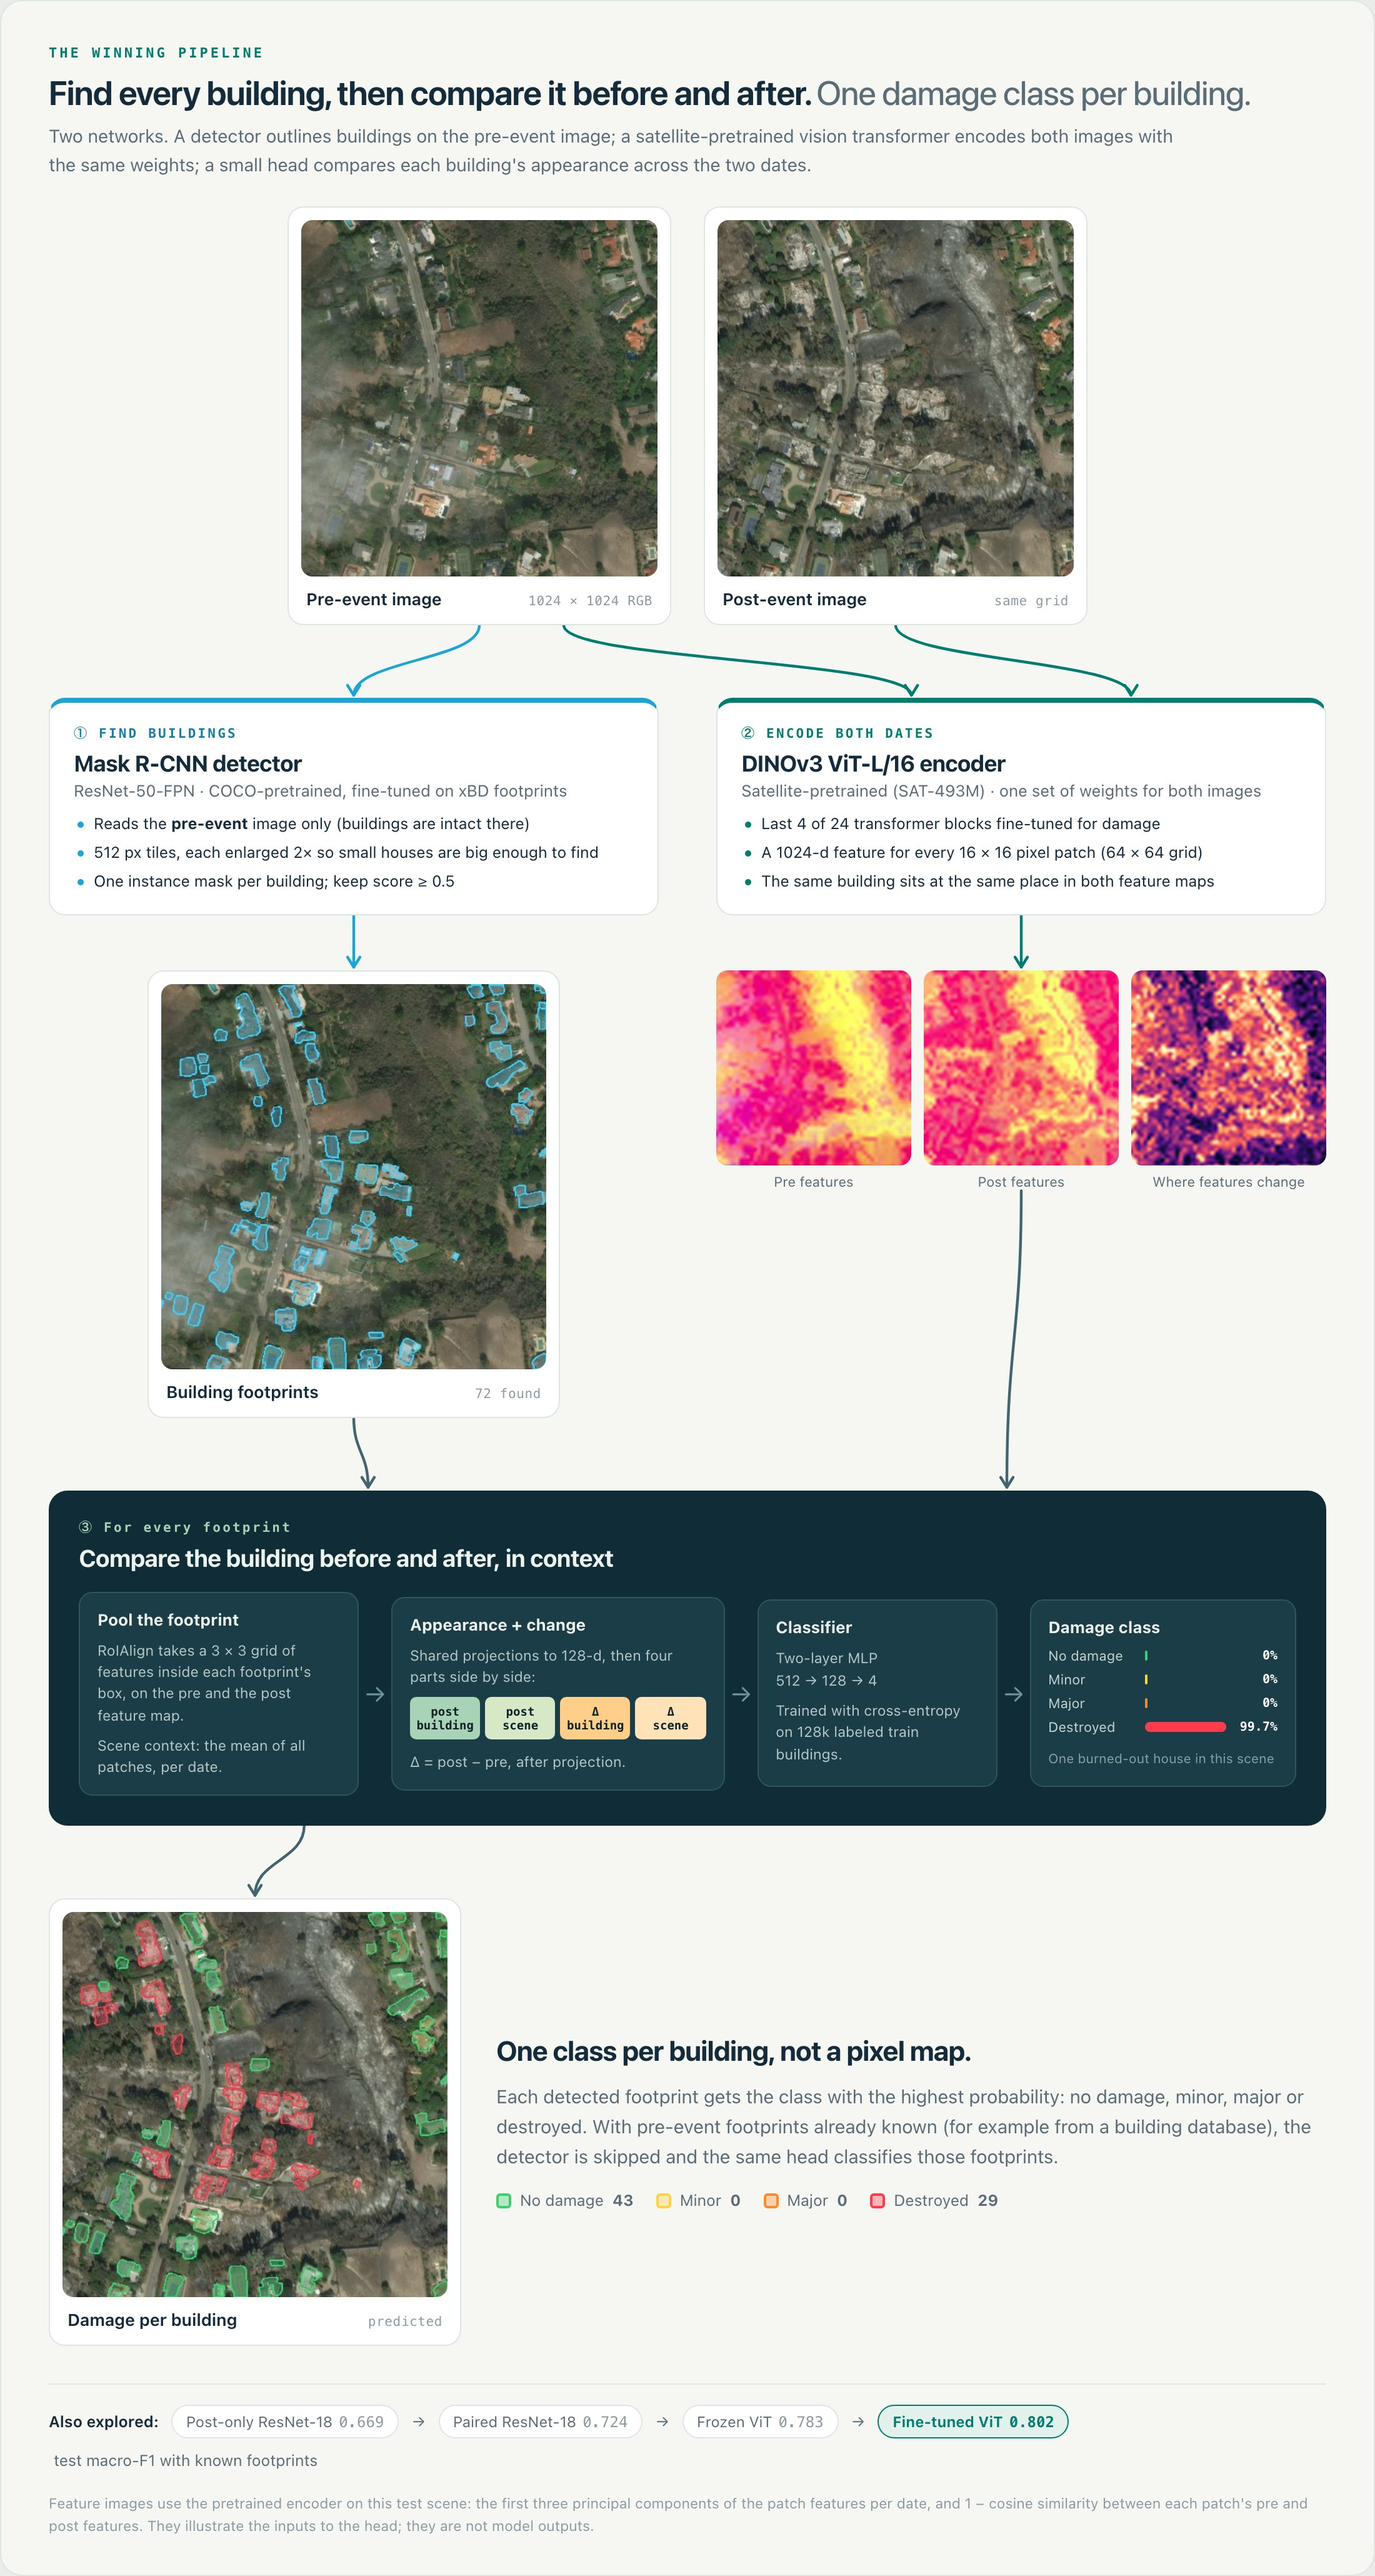
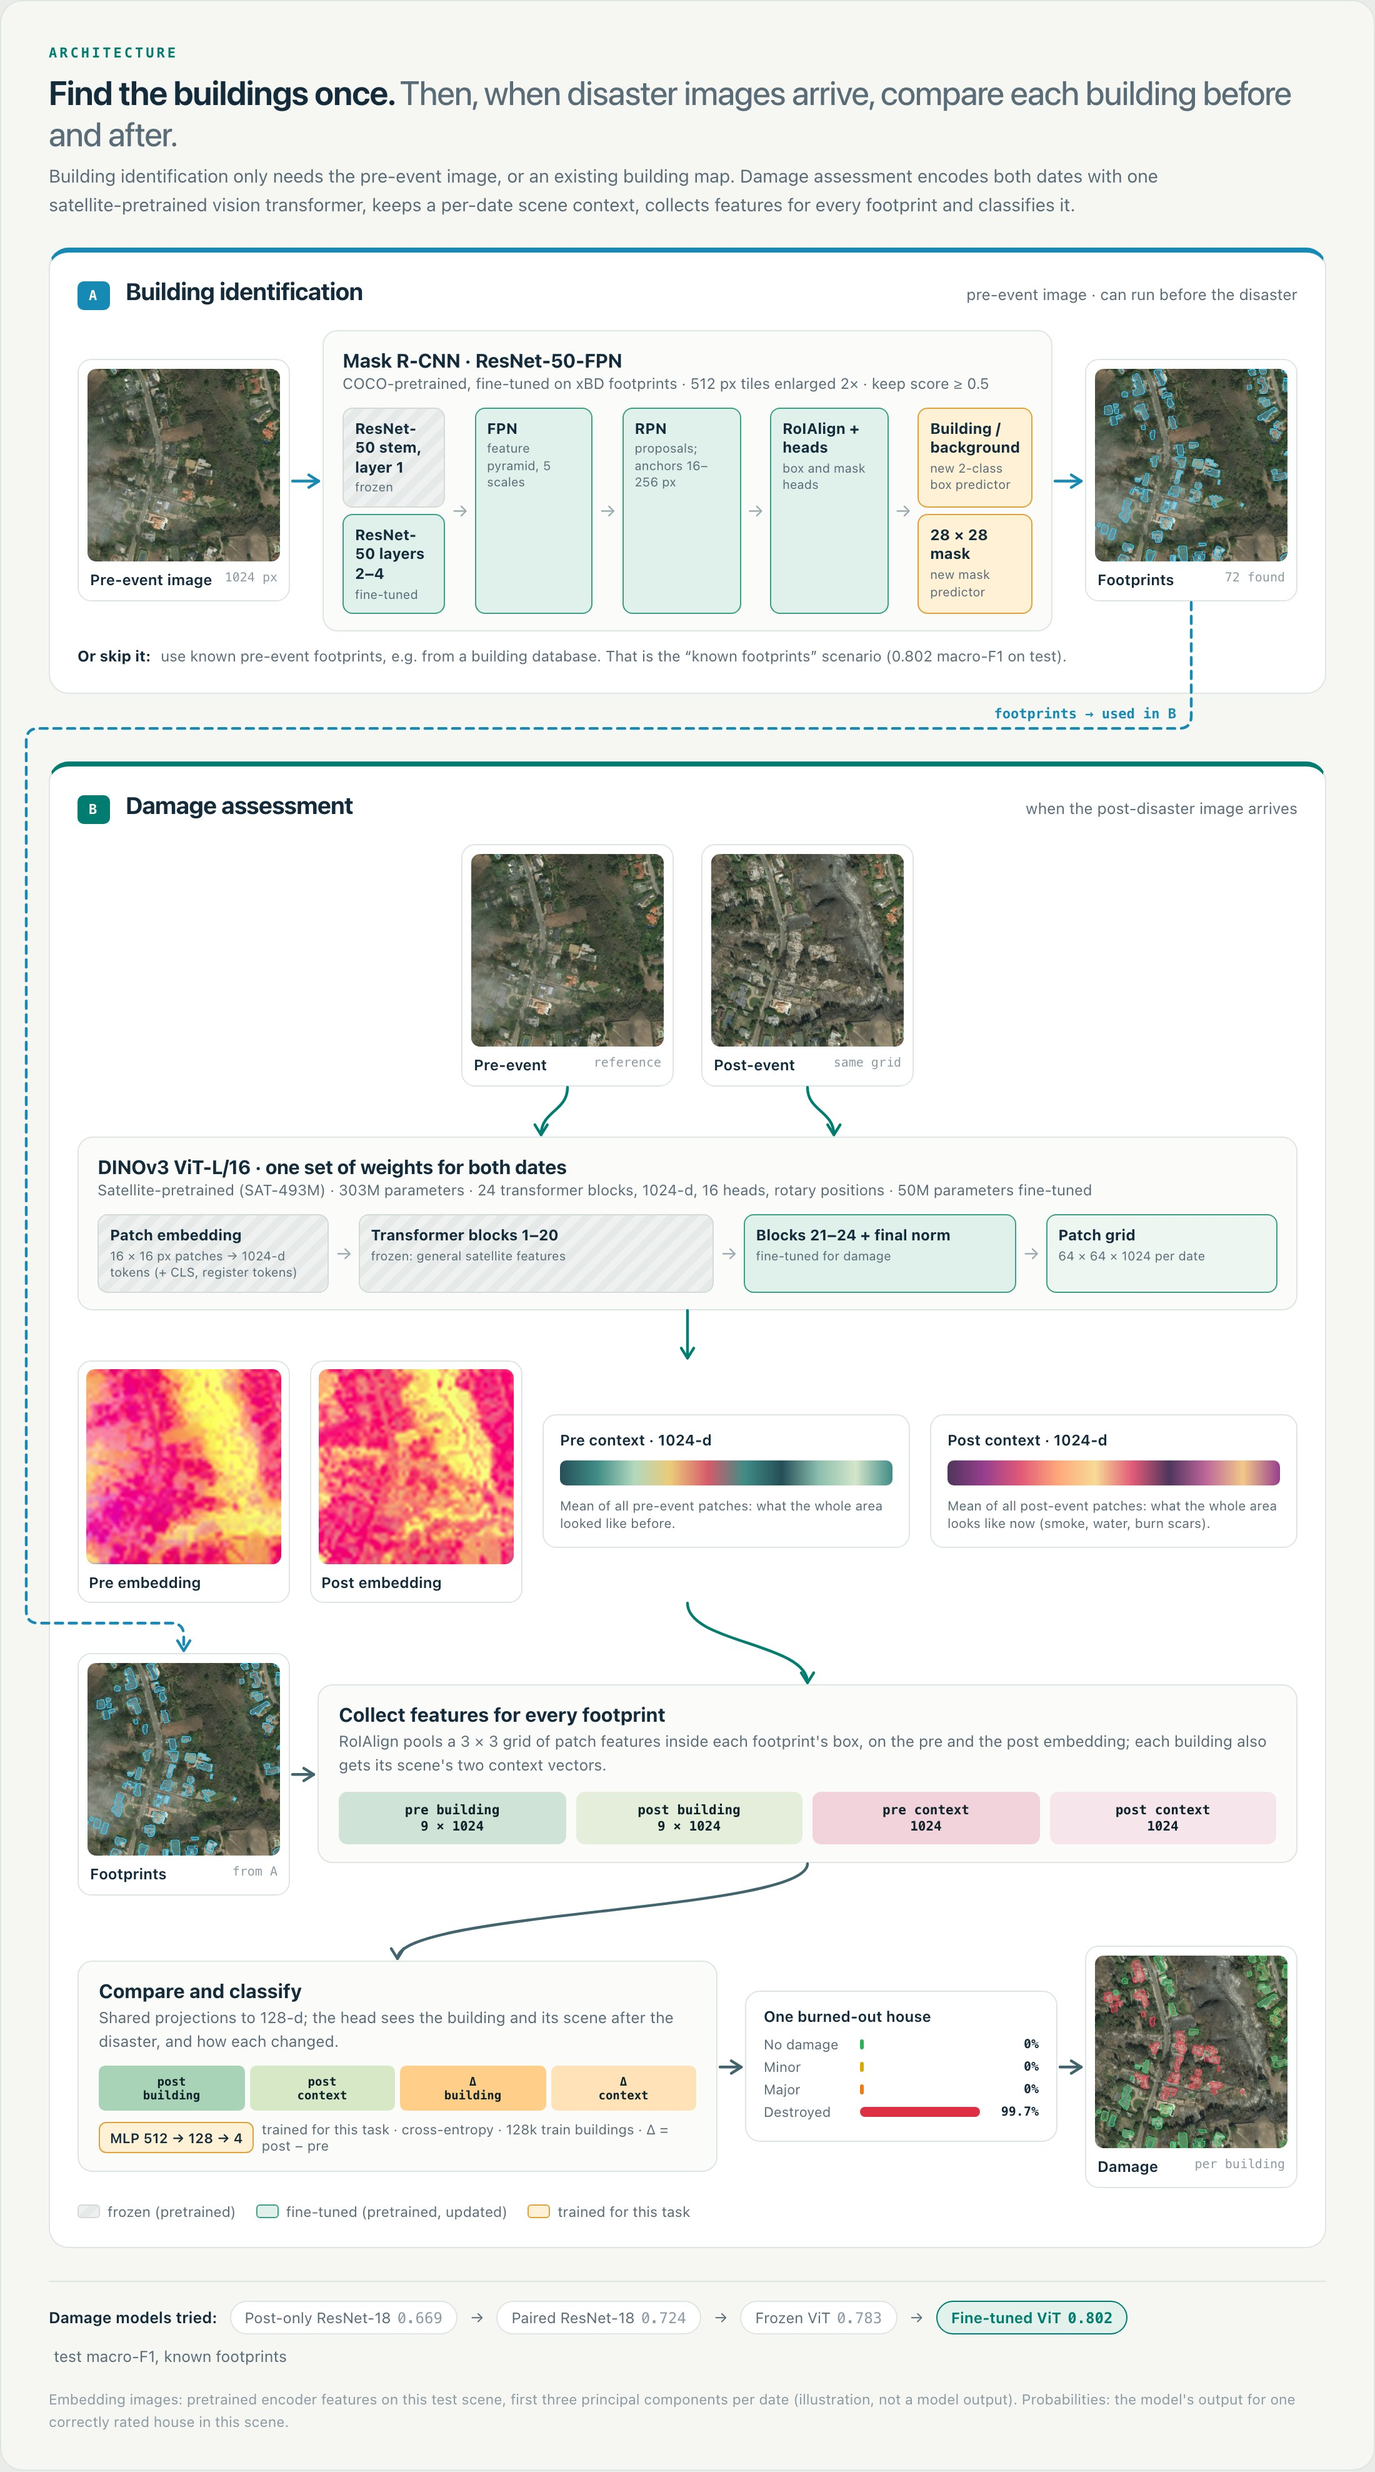
update readme

diff --git a/README.md b/README.md
@@ -31,20 +31,30 @@ outline with a damage class; its train and test splits, used here, cover ten dis
 
 ## 3. The model
 
-<p align="center"><img src="assets/architecture.jpg" width="100%" alt="Vertical pipeline: pre and post images; Mask R-CNN on the pre image finds footprints; a shared DINOv3 ViT-L encodes both images; per footprint, pooled features and their pre-to-post change go through a small classifier to one of four damage classes."></p>
+<p align="center"><img src="assets/architecture.jpg" width="100%" alt="Two stages. A: Mask R-CNN on the pre-event image finds building footprints (or known footprints are used). B: when the post-disaster image arrives, one DINOv3 ViT-L encodes both dates; per-date patch embeddings and scene contexts are pooled per footprint and a small head classifies damage."></p>
 
-- **Find buildings.** Mask R-CNN (ResNet-50-FPN, COCO-pretrained) outlines buildings on the *pre-event* image, where
-  they are still intact. Two thirds of all buildings cover less than 32 × 32 px, so the detector is trained and run
-  on 512 px tiles enlarged 2×; that raised mask AP from 0.343 to 0.405 and small-building recall from 44% to 58%
-  (validation).
-- **Encode both dates.** One satellite-pretrained DINOv3 ViT-L/16 encodes the before and after images with the same
-  weights; its last 4 of 24 blocks are fine-tuned for damage.
-- **Compare each building.** For every footprint, a 3 × 3 feature grid is pooled on both dates, plus a whole-scene
-  average. A small head classifies **[post building, post scene, post − pre building, post − pre scene]**.
+Two stages, run at different times:
 
-Also explored, in order (test macro-F1 with known footprints): post-image-only ResNet-18 **0.669** → paired ResNet-18
-**0.724** → frozen ViT **0.783** → fine-tuned ViT **0.802**. Comparing before with after, a satellite-pretrained
-encoder, and fine-tuning it each helped.
+**A · Building identification (pre-event image).** Mask R-CNN with a ResNet-50-FPN backbone, starting from COCO
+weights: ResNet-50 → feature pyramid → region proposals → RoIAlign → box head (building vs. background) and mask head
+(28 × 28 mask per building). The ResNet stem and first stage stay frozen; stages 2–4, the pyramid, the proposal network
+and both heads are fine-tuned on xBD footprints, with new two-class predictors. Two thirds of all buildings cover less
+than 32 × 32 px, so the detector is trained and run on 512 px tiles enlarged 2×; that raised mask AP from 0.343 to
+0.405 and small-building recall from 44% to 58% (validation). With an existing building map, this stage is skipped.
+
+**B · Damage assessment (when the post-disaster image arrives).**
+- **Encode both dates** with one DINOv3 ViT-L/16, pretrained on satellite imagery (SAT-493M): 16 × 16 px patches →
+  24 transformer blocks (1024-d, 16 heads, rotary positions) → a 64 × 64 grid of 1024-d patch embeddings per date.
+  Blocks 1–20 stay frozen; blocks 21–24 and the final norm (50M of 303M parameters) are fine-tuned.
+- **Keep the context of each date:** the mean of all patch embeddings, for the pre- and the post-event image.
+- **Collect features per footprint:** RoIAlign pools a 3 × 3 grid of patch embeddings inside each footprint, on both
+  dates.
+- **Compare and classify:** shared projections to 128-d, then a small MLP (trained for this task) on
+  **[post building, post context, post − pre building, post − pre context]** → no damage / minor / major / destroyed.
+
+Damage models tried, in order (test macro-F1 with known footprints): post-image-only ResNet-18 **0.669** → paired
+ResNet-18 **0.724** → frozen ViT **0.783** → fine-tuned ViT **0.802**. Comparing before with after, a
+satellite-pretrained encoder, and fine-tuning it each helped.
 
 ## 4. Results
 
@@ -72,15 +82,31 @@ encoder, and fine-tuning it each helped.
 
 These are probes and associations, not a complete explanation of the network.
 
-## 6. Limitations and next steps
+## 6. Next steps: from benchmark to deployment
 
-- **Seen disasters only.** Train, validation and test come from the same ten events; performance on a new disaster
-  is unmeasured. Next: hold out whole events.
-- **Detection.** Most lost buildings already have a correct outline with a low confidence score (78% of misses). A
-  pilot verifier that re-scores detections with ViT features raised end-to-end validation macro-F1 from 0.566 to
-  0.583; next is splitting merged buildings in dense blocks and trying a ViT-based detector.
-- **Subtle damage.** Minor vs. no damage remains the main confusion; pooling features over the building mask instead of
-  its box is a cheap next step.
+<p align="center"><img src="assets/next-steps.jpg" width="100%" alt="Deployment workflow: post-disaster image with metadata, search a region of a reference archive, match keypoints with RANSAC, gate on match quality, then assess damage on aligned reference footprints, or fall back to detection. A real SIFT match on the test wildfire pair."></p>
+
+**Registration is the first problem in the field.** With known footprints the model scores 0.802; detecting buildings
+from the images alone gives 0.574. In xBD the before and after images arrive co-registered with their footprints (the
+measured residual is a few pixels, and correcting it did not improve the score), so the gap there is detection. A real
+deployment gets a post-disaster image with a GPS fix and camera metadata, not aligned to anything. The workflow:
+
+1. Use the metadata to bound a search region in an archive of pre-event imagery and building footprints.
+2. Match local keypoints between the post-disaster image and candidate reference tiles (classic SIFT/ORB, or learned
+   matchers such as SuperPoint + LightGlue), and fit the alignment with RANSAC.
+3. If enough matches are consistent, warp the reference footprints onto the new image and run the damage model on
+   them: the 0.802 path. If not, fall back to detecting buildings and flag the area for review.
+
+On the wildfire pair above, SIFT finds 123 descriptor matches, 68 consistent after RANSAC: all on intact roads and
+houses, almost none in the burned area. The damage itself is what makes registration hard.
+
+Also next:
+- **Misalignment tolerance:** shift footprints synthetically to measure how much registration error the damage model
+  tolerates.
+- **New disasters:** all results come from ten events seen in training; hold out whole events.
+- **Detection:** 78% of missed buildings already have a correct outline with a low score; a pilot that re-scores
+  detections raised end-to-end validation macro-F1 from 0.566 to 0.583.
+- **Subtle damage:** minor vs. no damage is the main confusion; pool features over the building mask, not its box.
 - One training run per model; labels describe what is visible from above, not structural safety.
 
 ## Repository layout
